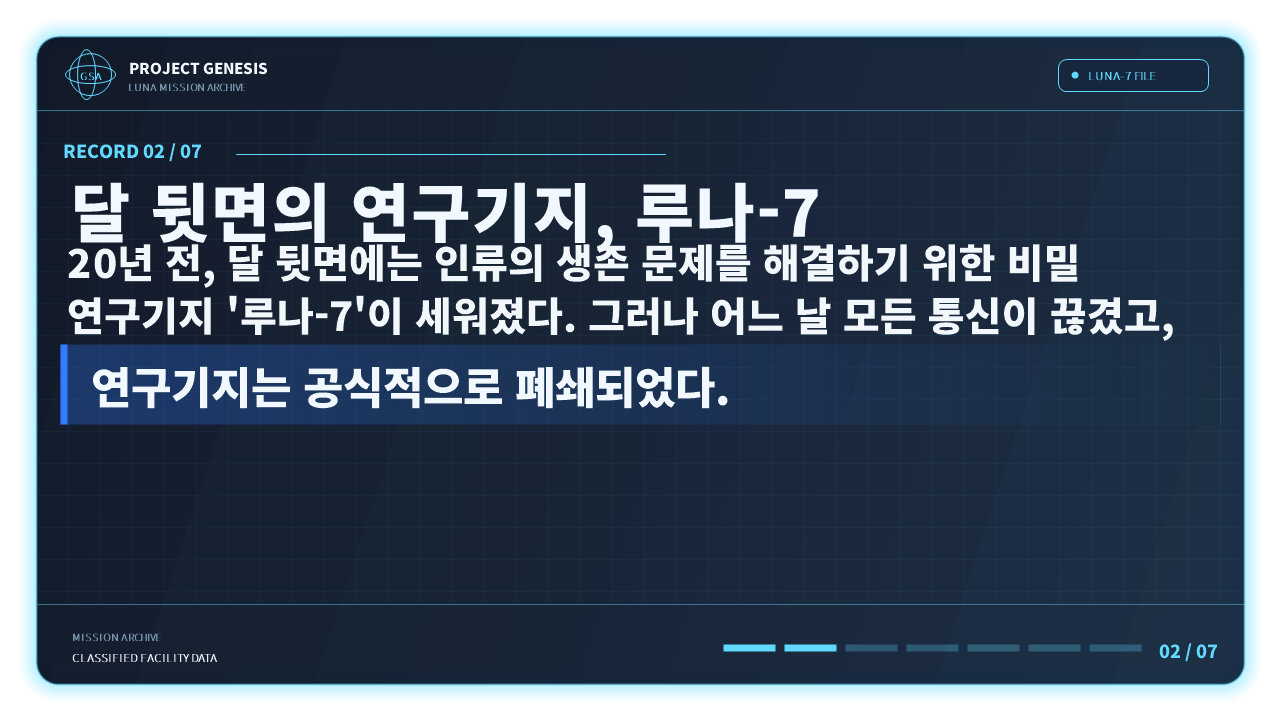
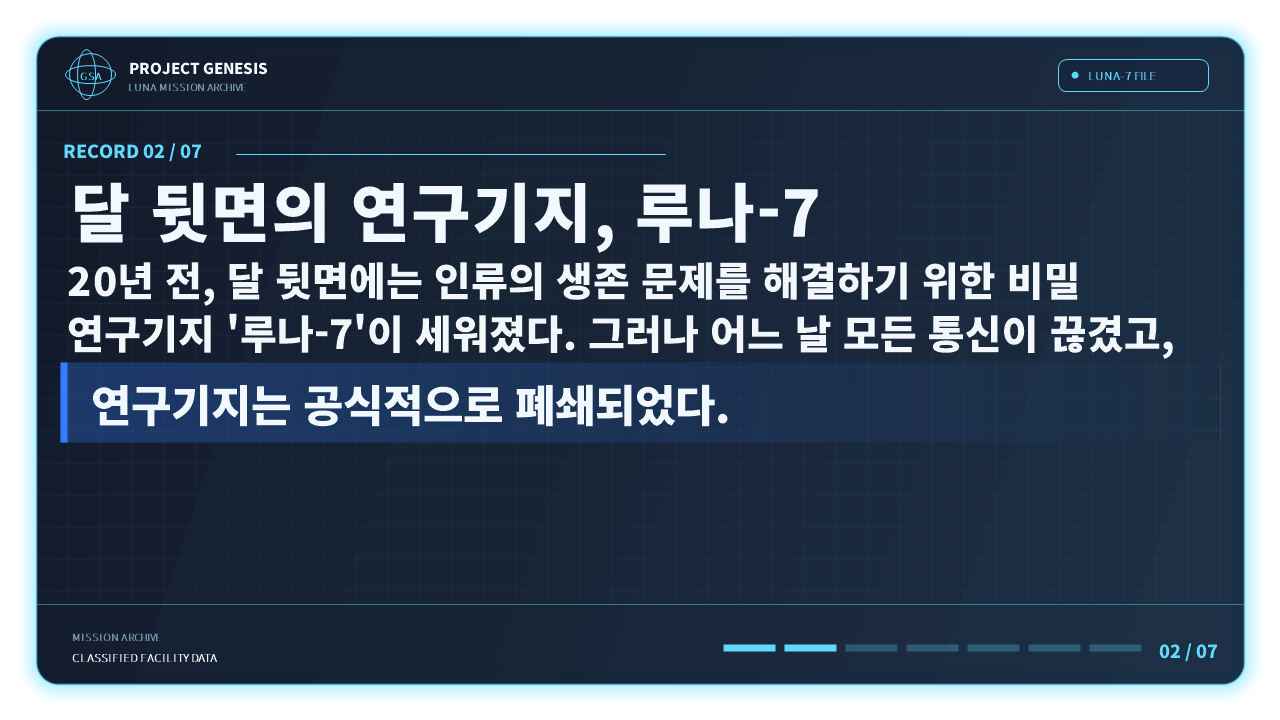
fix: add spacing below Genesis panel titles

Changed region(s): [[0.0312, 0.3361, 0.9375, 0.6417]]

diff --git a/apps/zep-studio/story-panel-renderer.css b/apps/zep-studio/story-panel-renderer.css
@@ -2,6 +2,6 @@
 :root{--accent:#62d9ff;--accent2:#347cff;--alert:#ff7b55;--glow:rgba(77,195,255,.32);--panel:rgba(3,12,28,.93);--panel2:rgba(7,24,47,.9);--line:rgba(102,217,255,.34);--text:#f2f8ff;--muted:#9cb5c9}
 *{box-sizing:border-box}html,body{width:1280px;height:720px;margin:0;overflow:hidden;background:transparent;font-family:Pretendard,Arial,sans-serif}body{padding:36px}.story-panel{position:relative;width:1208px;height:648px;overflow:hidden;border:1px solid var(--line);border-radius:22px;background:linear-gradient(135deg,var(--panel),rgba(4,17,37,.87) 62%,var(--panel2));color:var(--text);box-shadow:0 0 0 1px rgba(147,224,255,.06) inset,0 22px 70px rgba(0,0,0,.32),0 0 42px var(--glow);isolation:isolate}.story-panel::before{content:'';position:absolute;inset:0;z-index:-2;background:linear-gradient(rgba(117,208,255,.028) 1px,transparent 1px),linear-gradient(90deg,rgba(117,208,255,.028) 1px,transparent 1px);background-size:32px 32px;mask-image:linear-gradient(90deg,#000,transparent 78%)}.story-panel::after{content:'';position:absolute;width:520px;height:520px;right:-150px;top:-210px;z-index:-1;border:1px solid rgba(105,218,255,.12);border-radius:50%;box-shadow:0 0 90px var(--glow)}.tone-red{--accent:#ff7567;--accent2:#ff334e;--alert:#ffb264;--glow:rgba(255,55,70,.28);--line:rgba(255,100,103,.38);--panel:rgba(24,4,13,.94);--panel2:rgba(40,5,16,.89)}.tone-amber{--accent:#64d8ff;--accent2:#ff9b43;--alert:#ffad52;--glow:rgba(255,143,54,.22)}.tone-mixed{--accent:#65dfff;--accent2:#ff5e55;--alert:#ff7761;--glow:rgba(80,166,255,.26)}.tone-bright{--accent:#d8f8ff;--accent2:#67caff;--alert:#fff;--glow:rgba(156,234,255,.46);--panel:rgba(4,20,40,.88);--panel2:rgba(14,62,89,.84);--line:rgba(202,246,255,.62)}
 .panel-header{height:74px;display:flex;align-items:center;justify-content:space-between;padding:0 34px;border-bottom:1px solid var(--line);background:rgba(3,10,22,.34)}.agency{display:flex;align-items:center;gap:14px}.agency-mark{position:relative;display:grid;place-items:center;width:42px;height:42px;border:1px solid var(--accent);border-radius:50%;color:var(--accent);font-size:9px;font-weight:900;letter-spacing:.08em;box-shadow:0 0 20px var(--glow)}.agency-mark::before,.agency-mark::after{content:'';position:absolute;width:50px;height:18px;border:1px solid var(--accent);border-radius:50%;opacity:.48;transform:rotate(28deg)}.agency-mark::after{transform:rotate(-28deg)}.agency b,.agency small{display:block}.agency b{font-size:14px;letter-spacing:.12em}.agency small{margin-top:3px;color:#6e90aa;font-size:9px;letter-spacing:.16em}.system-status{display:flex;align-items:center;gap:9px;padding:8px 12px;border:1px solid var(--line);border-radius:8px;background:rgba(4,15,29,.72);color:var(--accent);font-size:10px;font-weight:800;letter-spacing:.12em}.system-status i{width:7px;height:7px;border-radius:50%;background:var(--accent2);box-shadow:0 0 12px var(--accent2);animation:pulse 1.6s infinite}@keyframes pulse{50%{opacity:.38}}
-.panel-main{display:block;height:494px;padding:18px 24px 12px}.copy{min-width:0;width:100%}.record-row{display:flex;align-items:center;gap:16px;color:var(--accent);font-size:18px;font-weight:900;letter-spacing:.13em}.record-row::after{content:'';height:2px;max-width:430px;flex:1;background:linear-gradient(90deg,var(--accent),transparent);opacity:.72}.copy h1{margin:6px 0 6px;font-size:64px;font-weight:900;line-height:1.02;letter-spacing:-.055em}.body-copy{width:100%}.body-copy p{max-width:1180px;margin:0;color:#f5f9fd;font-size:var(--body-size,42px);font-weight:850;line-height:1.32;letter-spacing:-.04em;word-break:keep-all;text-shadow:0 1px 0 rgba(255,255,255,.1),0 0 9px rgba(125,202,255,.07)}.highlight{display:flex;align-items:flex-start;min-height:80px;flex-direction:column;justify-content:center;margin-top:8px;padding:8px 22px;border-left:7px solid var(--accent2);background:linear-gradient(90deg,rgba(48,136,205,.27),transparent 96%);color:#fff;font-size:44px;font-weight:900;line-height:1.2;word-break:keep-all;text-shadow:0 0 14px var(--glow)}.highlight span{display:block}.story-panel.tone-red::before{background:repeating-linear-gradient(0deg,rgba(255,55,70,.035) 0,rgba(255,55,70,.035) 2px,transparent 2px,transparent 7px)}.tone-red .highlight{background:linear-gradient(90deg,rgba(255,35,65,.29),transparent)}.tone-mixed .highlight{background:linear-gradient(90deg,rgba(255,65,55,.27),rgba(45,132,210,.1),transparent)}.tone-bright .highlight{font-size:52px;letter-spacing:.09em;background:linear-gradient(90deg,rgba(132,225,255,.3),transparent)}
+.panel-main{display:block;height:494px;padding:18px 24px 12px}.copy{min-width:0;width:100%}.record-row{display:flex;align-items:center;gap:16px;color:var(--accent);font-size:18px;font-weight:900;letter-spacing:.13em}.record-row::after{content:'';height:2px;max-width:430px;flex:1;background:linear-gradient(90deg,var(--accent),transparent);opacity:.72}.copy h1{margin:6px 0 20px;font-size:64px;font-weight:900;line-height:1.02;letter-spacing:-.055em}.body-copy{width:100%}.body-copy p{max-width:1180px;margin:0;color:#f5f9fd;font-size:var(--body-size,42px);font-weight:850;line-height:1.32;letter-spacing:-.04em;word-break:keep-all;text-shadow:0 1px 0 rgba(255,255,255,.1),0 0 9px rgba(125,202,255,.07)}.highlight{display:flex;align-items:flex-start;min-height:80px;flex-direction:column;justify-content:center;margin-top:8px;padding:8px 22px;border-left:7px solid var(--accent2);background:linear-gradient(90deg,rgba(48,136,205,.27),transparent 96%);color:#fff;font-size:44px;font-weight:900;line-height:1.2;word-break:keep-all;text-shadow:0 0 14px var(--glow)}.highlight span{display:block}.story-panel.tone-red::before{background:repeating-linear-gradient(0deg,rgba(255,55,70,.035) 0,rgba(255,55,70,.035) 2px,transparent 2px,transparent 7px)}.tone-red .highlight{background:linear-gradient(90deg,rgba(255,35,65,.29),transparent)}.tone-mixed .highlight{background:linear-gradient(90deg,rgba(255,65,55,.27),rgba(45,132,210,.1),transparent)}.tone-bright .highlight{font-size:52px;letter-spacing:.09em;background:linear-gradient(90deg,rgba(132,225,255,.3),transparent)}
 .visual{position:relative;display:grid;place-items:center;min-width:0;border:1px solid rgba(108,204,255,.14);border-radius:15px;background:radial-gradient(circle at 50% 45%,rgba(65,162,220,.13),rgba(1,8,19,.3) 62%)}.visual::before,.visual::after{content:'';position:absolute;border:1px solid var(--line);border-radius:50%;opacity:.32}.visual::before{width:260px;height:260px}.visual::after{width:210px;height:210px}.visual svg{position:relative;z-index:1;width:286px;height:286px;filter:drop-shadow(0 0 16px var(--glow))}.visual .stroke{fill:none;stroke:var(--accent);stroke-width:4;stroke-linecap:round;stroke-linejoin:round}.visual .thin{fill:none;stroke:var(--accent);stroke-width:2;opacity:.58}.visual .fill{fill:var(--accent);opacity:.13}.visual .hot{fill:var(--accent2);stroke:var(--alert);stroke-width:2}.visual .soft{fill:var(--accent);opacity:.55}.visual-label{position:absolute;right:13px;bottom:11px;color:#517995;font-size:8px;font-weight:800;letter-spacing:.16em}
 .panel-footer{height:80px;display:grid;grid-template-columns:1fr auto;align-items:center;gap:24px;padding:0 34px;border-top:1px solid var(--line);background:rgba(2,9,20,.38)}.meta small,.meta b{display:block}.meta small{color:#557890;font-size:8px;font-weight:800;letter-spacing:.18em}.meta b{margin-top:5px;color:#9fb7c8;font-size:10px;letter-spacing:.08em}.progress{display:flex;align-items:center;gap:7px}.progress span{width:54px;height:7px;border:1px solid rgba(106,199,245,.2);border-radius:99px;background:rgba(15,47,70,.62)}.progress span.done{border-color:var(--accent);background:linear-gradient(90deg,var(--accent2),var(--accent));box-shadow:0 0 10px var(--glow)}.step-label{margin-left:8px;color:var(--accent);font-size:12px;font-weight:900;letter-spacing:.12em}
